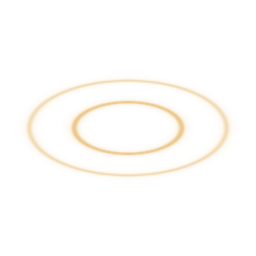
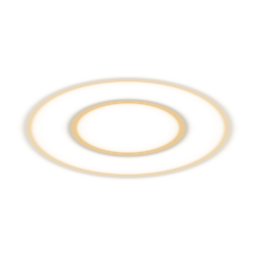
Polish the skins: a lower temple fish, unclipped tails, legible ripples
The temple fish's voice was higher than the fish board's and hard to
tell from the ink fish. It is now the lowest of the wooden fishes, at
370 Hz, with a longer hollow ring and a soft dok where the click was.
Its mallet loses the pink fringe and stray specks around the head, and
its strike moves down 0.003 to meet the dome like the other fishes.

The bowl, cloud gong, stone chime, bianzhong and bamboo block were cut
off by their 50 ms fade while still ringing, the bowl at -19.5 dB. Each
is now long enough to fade below -39 dB; the knock itself is unchanged.

The ten thin ripples drawn by draw_skin_impacts.py nearly vanished on a
light desktop. Each ring now has a faint shadow in a darker shade of its
own colour, lost on a dark desktop.

The seal's mallet was a near-copy of the abacus's rosewood one; its head
is recoloured to the boxwood its prompt asked for.

knock_synth.py counts a voice's samples in Float, as Swift does, so all
twenty-one voices match the app's length to the sample.

Amp-Thread-ID: https://ampcode.com/threads/T-01a1a6b1-8dc8-71c9-af1d-e80bc71d9143

diff --git a/Sources/Plinth/KnockSynth.swift b/Sources/Plinth/KnockSynth.swift
@@ -106,7 +106,7 @@ enum KnockSynth {
         // A struck bronze bowl. The hum sits under a slightly sharp rim tone;
         // the cents are the slow beat of a bowl that isn't perfectly round.
         "bowl": Tone(
-            bases: [196, 191, 202], length: 1.35, seed: 67,
+            bases: [196, 191, 202], length: 3.0, seed: 67,
             modes: [Mode(ratio: 1, amp: 0.62, tau: 0.70, cents: 5), Mode(ratio: 2.05, amp: 1, tau: 0.42, cents: 8),
                     Mode(ratio: 2.98, amp: 0.36, tau: 0.18, cents: 10), Mode(ratio: 5.10, amp: 0.14, tau: 0.07, cents: 14),
                     Mode(ratio: 9.40, amp: 0.16, tau: 0.014), Mode(ratio: 14.5, amp: 0.08, tau: 0.007)],
@@ -119,7 +119,7 @@ enum KnockSynth {
             noise: Noise(amp: 0.85, tau: 0.0014, low: 2800, high: 9000), attack: 0.0003),
         // A hollow bamboo tube, more air than wood.
         "bamboo": Tone(
-            bases: [262, 254, 270], length: 0.85, seed: 83,
+            bases: [262, 254, 270], length: 0.95, seed: 83,
             modes: [Mode(ratio: 1, amp: 1, tau: 0.12), Mode(ratio: 2.76, amp: 0.38, tau: 0.05),
                     Mode(ratio: 4.4, amp: 0.12, tau: 0.025)],
             body: Mode(ratio: 0.5, amp: 0.65, tau: 0.22),
@@ -151,7 +151,7 @@ enum KnockSynth {
         // A flat bronze plate under a leather mallet. A plate's partials don't line
         // up the way a bowl's do, and the soft head keeps the clang out.
         "plate": Tone(
-            bases: [330, 322, 338], length: 1.3, seed: 107,
+            bases: [330, 322, 338], length: 2.2, seed: 107,
             modes: [Mode(ratio: 1, amp: 0.8, tau: 0.55, cents: 6), Mode(ratio: 1.59, amp: 1, tau: 0.38, cents: 9),
                     Mode(ratio: 2.14, amp: 0.55, tau: 0.22, cents: 12), Mode(ratio: 2.65, amp: 0.30, tau: 0.12),
                     Mode(ratio: 3.61, amp: 0.14, tau: 0.06)],
@@ -165,7 +165,7 @@ enum KnockSynth {
         // An almond-shaped bronze bell: two notes a minor third apart, struck with
         // wood, and damped sooner than a round bell would be.
         "bell": Tone(
-            bases: [392, 384, 400], length: 1.4, seed: 113,
+            bases: [392, 384, 400], length: 2.0, seed: 113,
             modes: [Mode(ratio: 0.5, amp: 0.30, tau: 0.50), Mode(ratio: 1, amp: 1, tau: 0.40, cents: 4),
                     Mode(ratio: 1.19, amp: 0.65, tau: 0.32), Mode(ratio: 2.4, amp: 0.35, tau: 0.12),
                     Mode(ratio: 3.1, amp: 0.20, tau: 0.06), Mode(ratio: 4.9, amp: 0.10, tau: 0.03)],
@@ -180,7 +180,7 @@ enum KnockSynth {
         // A thin slab of stone hung on a cord. It rings longer than the jade fish,
         // and the felt mallet keeps the attack soft.
         "chime": Tone(
-            bases: [560, 548, 574], length: 1.2, seed: 131,
+            bases: [560, 548, 574], length: 1.7, seed: 131,
             modes: [Mode(ratio: 1, amp: 1, tau: 0.35), Mode(ratio: 2.76, amp: 0.45, tau: 0.14),
                     Mode(ratio: 5.4, amp: 0.20, tau: 0.05), Mode(ratio: 8.9, amp: 0.08, tau: 0.015)],
             noise: Noise(amp: 0.15, tau: 0.003, low: 1000, high: 5000), attack: 0.0015),
@@ -199,14 +199,14 @@ enum KnockSynth {
                     Mode(ratio: 3.5, amp: 0.25, tau: 0.02), Mode(ratio: 5.6, amp: 0.10, tau: 0.01)],
             body: Mode(ratio: 0.35, amp: 0.15, tau: 0.05),
             noise: Noise(amp: 0.45, tau: 0.0007, low: 5000, high: 14000), attack: 0.0002),
-        // A big old temple fish under a cloth-wrapped mallet: the wooden fish,
-        // lower and rounder, with the click padded away.
+        // A big old temple fish under a cloth-wrapped mallet: the lowest of the
+        // wooden fishes, a long hollow ring, and a soft dok where the click was.
         "temple": Tone(
-            bases: [470, 458, 482], length: 1.0, seed: 149,
-            modes: [Mode(ratio: 1, amp: 1, tau: 0.15), Mode(ratio: 1.52, amp: 0.40, tau: 0.09),
-                    Mode(ratio: 2.31, amp: 0.18, tau: 0.05), Mode(ratio: 3.07, amp: 0.08, tau: 0.03)],
-            body: Mode(ratio: 0.5, amp: 0.55, tau: 0.22),
-            noise: Noise(amp: 0.30, tau: 0.006, low: 600, high: 2600), attack: 0.003, lowpass: 3000),
+            bases: [370, 361, 380], length: 1.2, seed: 149,
+            modes: [Mode(ratio: 1, amp: 1, tau: 0.17), Mode(ratio: 1.52, amp: 0.45, tau: 0.10),
+                    Mode(ratio: 2.31, amp: 0.22, tau: 0.055), Mode(ratio: 3.07, amp: 0.10, tau: 0.032)],
+            body: Mode(ratio: 0.5, amp: 0.65, tau: 0.30),
+            noise: Noise(amp: 1.0, tau: 0.005, low: 800, high: 3500), attack: 0.002, lowpass: 4500),
     ]
 
     private static func strike(_ tone: Tone, base: Float, seed: UInt64,

diff --git a/tools/knock_synth.py b/tools/knock_synth.py
@@ -51,14 +51,14 @@ TONES = {
     "jade": dict(bases=[740, 724, 758], length=.85, seed=53,
                  modes=[M(1, 1, .16), M(2.27, .40, .07), M(3.70, .18, .030), M(6.40, .10, .010)],
                  body=M(.72, .06, .04), noise=(.28, .0011, 4500, 12000), attack=.0004),
-    "bowl": dict(bases=[196, 191, 202], length=1.35, seed=67,
+    "bowl": dict(bases=[196, 191, 202], length=3.0, seed=67,
                  modes=[M(1, .62, .70, 5), M(2.05, 1, .42, 8), M(2.98, .36, .18, 10), M(5.10, .14, .07, 14),
                         M(9.40, .16, .014), M(14.5, .08, .007)],
                  noise=(.22, .0018, 3200, 9000), attack=.0016),
     "key": dict(bases=[360, 348, 372], length=.22, seed=79,
                 modes=[M(1, .35, .018), M(4.2, .70, .010), M(7.5, .22, .005)],
                 noise=(.85, .0014, 2800, 9000), attack=.0003),
-    "bamboo": dict(bases=[262, 254, 270], length=.85, seed=83,
+    "bamboo": dict(bases=[262, 254, 270], length=.95, seed=83,
                    modes=[M(1, 1, .12), M(2.76, .38, .05), M(4.4, .12, .025)],
                    body=M(.5, .65, .22), noise=(.25, .004, 800, 3200), attack=.0012),
     "stone": dict(bases=[340, 330, 350], length=.5, seed=89,
@@ -73,19 +73,19 @@ TONES = {
     "bead": dict(bases=[1050, 1030, 1072], length=.3, seed=103,
                  modes=[M(1, 1, .030), M(2.71, .42, .016), M(5.2, .16, .007)],
                  body=M(.42, .10, .03), noise=(.55, .0016, 2500, 8000), attack=.0004),
-    "plate": dict(bases=[330, 322, 338], length=1.3, seed=107,
+    "plate": dict(bases=[330, 322, 338], length=2.2, seed=107,
                   modes=[M(1, .8, .55, 6), M(1.59, 1, .38, 9), M(2.14, .55, .22, 12), M(2.65, .30, .12), M(3.61, .14, .06)],
                   noise=(.18, .003, 600, 2800), attack=.002, lowpass=5000),
     "porcelain": dict(bases=[1180, 1160, 1204], length=.7, seed=109,
                       modes=[M(1, 1, .14), M(2.32, .36, .06), M(4.1, .16, .024), M(6.9, .08, .009)],
                       noise=(.30, .0008, 5000, 13000), attack=.0003),
-    "bell": dict(bases=[392, 384, 400], length=1.4, seed=113,
+    "bell": dict(bases=[392, 384, 400], length=2.0, seed=113,
                  modes=[M(.5, .30, .50), M(1, 1, .40, 4), M(1.19, .65, .32), M(2.4, .35, .12), M(3.1, .20, .06), M(4.9, .10, .03)],
                  noise=(.25, .002, 800, 4000), attack=.001),
     "stamp": dict(bases=[180, 172, 188], length=.3, seed=127,
                   modes=[M(1, 1, .030), M(2.3, .35, .015), M(3.9, .12, .008)],
                   body=M(.6, .40, .04), noise=(.60, .006, 300, 2500), attack=.001, lowpass=2500),
-    "chime": dict(bases=[560, 548, 574], length=1.2, seed=131,
+    "chime": dict(bases=[560, 548, 574], length=1.7, seed=131,
                   modes=[M(1, 1, .35), M(2.76, .45, .14), M(5.4, .20, .05), M(8.9, .08, .015)],
                   noise=(.15, .003, 1000, 5000), attack=.0015),
     "board": dict(bases=[430, 420, 442], length=.95, seed=137,
@@ -94,9 +94,9 @@ TONES = {
     "ceramic": dict(bases=[1450, 1420, 1480], length=.5, seed=139,
                     modes=[M(1, 1, .09), M(2.1, .45, .05), M(3.5, .25, .02), M(5.6, .10, .01)],
                     body=M(.35, .15, .05), noise=(.45, .0007, 5000, 14000), attack=.0002),
-    "temple": dict(bases=[470, 458, 482], length=1.0, seed=149,
-                   modes=[M(1, 1, .15), M(1.52, .40, .09), M(2.31, .18, .05), M(3.07, .08, .03)],
-                   body=M(.5, .55, .22), noise=(.30, .006, 600, 2600), attack=.003, lowpass=3000),
+    "temple": dict(bases=[370, 361, 380], length=1.2, seed=149,
+                   modes=[M(1, 1, .17), M(1.52, .45, .10), M(2.31, .22, .055), M(3.07, .10, .032)],
+                   body=M(.5, .65, .30), noise=(1.0, .005, 800, 3500), attack=.002, lowpass=4500),
 }
 
 
@@ -122,7 +122,7 @@ def strike(tone, base, seed, force=REF_FORCE, place=0.0):
     edge = min(abs(place), 1)
     base = base * (1 + .004 * (force - REF_FORCE)) * (1 + .012 * edge)
     rng = Rng(seed)
-    n = int(tone["length"] * SR)
+    n = int(np.float32(tone["length"]) * np.float32(SR))  # in Float, as Swift counts it
     out = np.zeros(n)
     idx = np.arange(n)
 

diff --git a/tools/draw_skin_impacts.py b/tools/draw_skin_impacts.py
@@ -40,11 +40,19 @@ for name, color in [
         r = np.hypot(dx, dy / 0.48)
 
     a = np.zeros_like(r)
+    shade = np.zeros_like(r)
     for radius, strength in [(0.42, 0.9), (0.77, 0.55)]:
         a += strength * np.exp(-((r - radius) / 0.023) ** 2)
         a += strength * 0.18 * np.exp(-((r - radius) / 0.065) ** 2)
+        # A faint shadow just outside each ring, lost on a dark desktop, so a
+        # pale ring still shows over a light one.
+        shade += strength * 0.32 * np.exp(-((r - radius - 0.03) / 0.03) ** 2)
     a = np.clip(a, 0, 1)
-    rgb = np.broadcast_to(np.array(color), (N, N, 3))
-    pixels = np.dstack([rgb, a * 255]).astype(np.uint8)
+    shade = np.clip(shade, 0, 1)
+    # The ring over its shadow, in a darker shade of its own colour.
+    alpha = a + shade * (1 - a)
+    dark = np.array(color) * 0.35
+    rgb = (np.array(color) * a[..., None] + dark * (shade * (1 - a))[..., None]) / np.maximum(alpha, 1e-6)[..., None]
+    pixels = np.dstack([rgb, alpha * 255]).round().astype(np.uint8)
     image = Image.fromarray(pixels).resize((256, 256), Image.Resampling.LANCZOS)
     image.save(Path(sys.argv[1]) / name / "impact.png", optimize=True)

diff --git a/CREDITS.md b/CREDITS.md
@@ -3,6 +3,6 @@
 - **Code** is released under the [MIT License](LICENSE).
 - **Updates** use [Sparkle](https://sparkle-project.org), under the [MIT License](https://github.com/sparkle-project/Sparkle/blob/2.x/LICENSE), embedded in the app as `Sparkle.framework`.
 - **Sprite artwork** (`App/Resources/Skins`, `mallet.png`, `impact.png`, `censer.png`) and the **app icon** (`App/AppIcon.png`) were AI-generated for this project, with the edits and effects below. They are dedicated to the public domain under [CC0 1.0](https://creativecommons.org/publicdomain/zero/1.0/).
-- **Sprite effects and derived frames** are also CC0. The singing bowl's ripple is drawn with [`tools/draw_ripple.py`](tools/draw_ripple.py); the space key, bamboo block, moss stone, piston, CRT, abacus, cloud gong, bianzhong, stone chime, and temple fish pulses are drawn with [`tools/draw_skin_impacts.py`](tools/draw_skin_impacts.py). The pressed key, compressed piston, flicked abacus bead, swung cloud gong and bianzhong, and rocked stone chime frames are derived from their idle artwork, keeping their bases still. The CRT's prompt and waveform are drawn over the same screen artwork, leaving its casing unchanged. The disk image's background (`App/DMGBackground.png`), with its ensō and seal, is drawn with [`tools/draw_dmg_background.py`](tools/draw_dmg_background.py).
-- **Knock sounds** are synthesized by the app when a skin is worn (`Sources/Plinth/KnockSynth.swift`), not recorded. That synthesis is part of the MIT code.
+- **Sprite effects and derived frames** are also CC0. The singing bowl's ripple is drawn with [`tools/draw_ripple.py`](tools/draw_ripple.py); the space key, bamboo block, moss stone, piston, CRT, abacus, cloud gong, bianzhong, stone chime, and temple fish pulses are drawn with [`tools/draw_skin_impacts.py`](tools/draw_skin_impacts.py). The pressed key, compressed piston, flicked abacus bead, swung cloud gong and bianzhong, and rocked stone chime frames are derived from their idle artwork, keeping their bases still. The seal's mallet head is its generated rosewood head recoloured to boxwood. The CRT's prompt and waveform are drawn over the same screen artwork, leaving its casing unchanged. The disk image's background (`App/DMGBackground.png`), with its ensō and seal, is drawn with [`tools/draw_dmg_background.py`](tools/draw_dmg_background.py).
+- **Knock sounds** are synthesized by the app as each knock is made (`Sources/Plinth/KnockSynth.swift`), not recorded. That synthesis is part of the MIT code.
 - **Zen quotes** in `Sources/Plinth/Zen.swift` are quoted in the original Chinese from texts in the public domain: the Diamond Sutra, the Vimalakirti Sutra, the Platform Sutra, the Chan records (《景德传灯录》, 《碧岩录》, 《无门关》, 《五灯会元》), the Imperial Edition of Baizhang's Pure Rules, and poems by Wang Wei and Li Ao. The disk image's 「放下着」 is Zhaozhou's, from the same Chan records. Each line was checked against its source, the Buddhist texts against the [CBETA](https://cbetaonline.dila.edu.tw/) canon.

diff --git a/docs/SKINS.md b/docs/SKINS.md
@@ -114,7 +114,7 @@ Plinth has no sound files. It synthesizes the knock for the voice you name when 
 | `chime` | A thin slab of hanging stone: a long, soft-edged ring. |
 | `board` | The long wooden fish that hangs outside the hall: lower and longer than `wood`. |
 | `ceramic` | A spoon on the rim of a full mug: a bright ting, damped by the coffee. |
-| `temple` | A big old temple fish under a cloth-wrapped mallet: lower and rounder than `wood`, with the click padded away. |
+| `temple` | A big old temple fish under a cloth-wrapped mallet: the lowest of the wooden fishes, a long hollow ring, and a soft *dok* where the click was. |
 
 Every knock is synthesized as the mallet falls, louder and brighter the harder it lands, and with more of the shell and less of the hollow the further from the strike point. Each voice is tuned at a medium blow on the strike point. Every knock rings on in the same wooden room, whose size the listener picks under Settings → Knocking → Space, from a small meditation room to a great hall. The longer the quiet before a knock, from 0.8 seconds up to 20 seconds, the more of the hall rings with it.
 
@@ -183,7 +183,7 @@ The built-in skins live in [`App/Resources/Skins`](../App/Resources/Skins), one 
 | `singing-bowl` | Singing Bowl | 铜磬 | `bowl` | 0.625, 0.39 | no | own | own |
 | `space-key` | Space Key | 空格键 | `key` | 0.52, 0.515 | yes | own | own |
 | `stone-chime` | Stone Chime | 石磬 | `chime` | 0.52, 0.65 | yes | own | own |
-| `temple-fish` | Temple Fish | 古木鱼 | `temple` | 0.58, 0.295 | no | own | own |
+| `temple-fish` | Temple Fish | 古木鱼 | `temple` | 0.58, 0.298 | no | own | own |
 
 None of the built-in skins has blink frames. To add a built-in skin, add its folder here and its Chinese name to `Skins.strings`. If its art is new, credit it in [CREDITS.md](../CREDITS.md).
 
